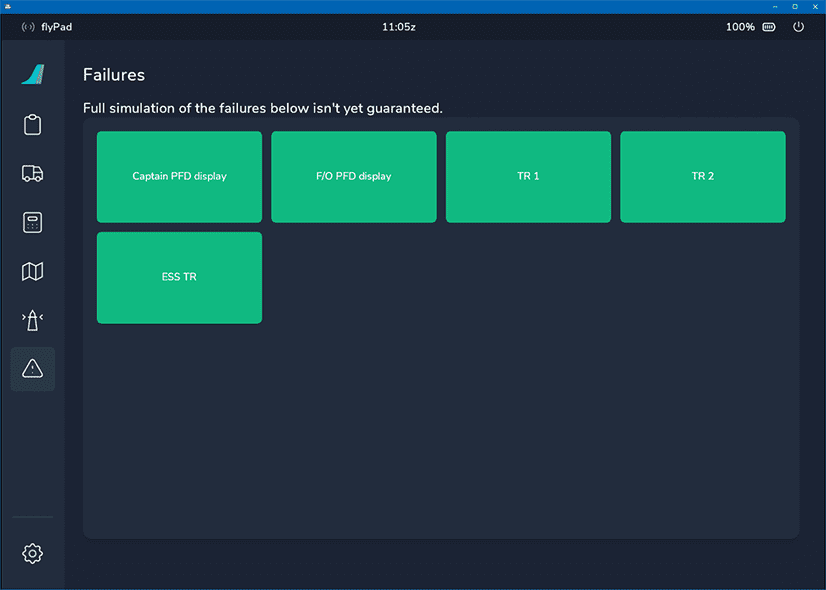
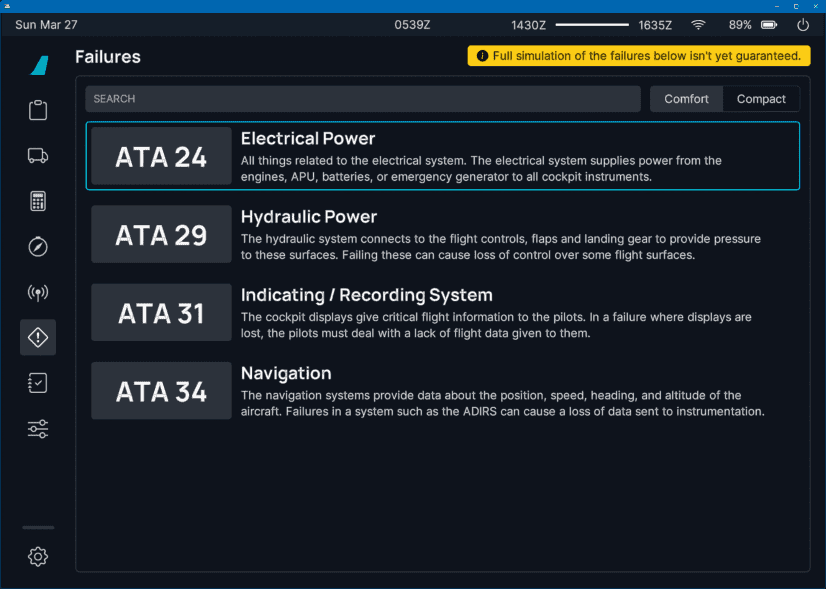
Failures page

diff --git a/docs/fbw-a32nx/feature-guides/flyPados3/failures.md b/docs/fbw-a32nx/feature-guides/flyPados3/failures.md
@@ -2,15 +2,17 @@
 
 # flyPad Failures
 
-## Description
+## Overview
 
-This page is a prototype for utilizing failures simulation for the FlyByWire A32NX. It lays
-the foundation for future failure scenarios in the aircraft which will be configured
-on this page.
+Although far from complete some A32NX systems are already capable of simulating failures.
 
-This page will therefore change alongside the implementation of the failure system.
+To manage and trigger these failures this flyPad page gives the user structured access to these systems and allows 
+simple triggering of failures by mouse click.
 
-See the developer description for this feature: [Feature Failures](https://github.com/flybywiresim/a32nx/pull/5359){target=new}
+There are further extensions planned for the failures feature incl. more systems and trigger based failures. This 
+page will therefore change alongside the implementation of the failure system.
+
+## Comfort view
 
 <div style="position: relative;">
     <img src="/fbw-a32nx/assets/flypados3/flypad-failures.png" style="width: 100%; height: auto;" loading="lazy">
@@ -27,7 +29,90 @@ See the developer description for this feature: [Feature Failures](https://githu
     <span class="imagesub">Click on the menu icons in this image to see other flyPad pages.</span>
 </div>
 
+## Compact view
 
-## Usage
+<div style="position: relative;">
+    <img src="/fbw-a32nx/assets/flypados3/flypad-failures-compact-view.png" style="width: 100%; height: auto;" loading="lazy">
+    <a href="../dashboard/">   <div class="imagemap" style="position: absolute; left: 1.7%; top:  6.9%; width: 5.8%; height: 7.0%;"><span class="imagemapname">Dashboard</span></div></a>
+    <a href="../dispatch/">    <div class="imagemap" style="position: absolute; left: 1.7%; top: 14.1%; width: 5.8%; height: 7.0%;"><span class="imagemapname">Dispatch</span></div></a>
+    <a href="../ground/">      <div class="imagemap" style="position: absolute; left: 1.7%; top: 21.1%; width: 5.8%; height: 7.0%;"><span class="imagemapname">Ground</span></div></a>
+    <a href="../performance/"> <div class="imagemap" style="position: absolute; left: 1.7%; top: 28.3%; width: 5.8%; height: 7.0%;"><span class="imagemapname">Performance</span></div></a>
+    <a href="../charts/">      <div class="imagemap" style="position: absolute; left: 1.7%; top: 35.6%; width: 5.8%; height: 7.0%;"><span class="imagemapname">Navigation & Charts</span></div></a>
+    <a href="../online-atc/">  <div class="imagemap" style="position: absolute; left: 1.7%; top: 43.0%; width: 5.8%; height: 7.0%;"><span class="imagemapname">Online ATC</span></div></a>
+    <a href="../failures/">    <div class="imagemap" style="position: absolute; left: 1.7%; top: 50.1%; width: 5.8%; height: 7.0%;"><span class="imagemapname">Failures</span></div></a>
+    <a href="../checklist/">   <div class="imagemap" style="position: absolute; left: 1.7%; top: 57.3%; width: 5.8%; height: 7.0%;"><span class="imagemapname">Checklists</span></div></a>
+    <a href="../presets/">     <div class="imagemap" style="position: absolute; left: 1.7%; top: 64.7%; width: 5.8%; height: 7.0%;"><span class="imagemapname">Presets</span></div></a>
+    <a href="../settings/">    <div class="imagemap" style="position: absolute; left: 1.7%; top: 85.0%; width: 5.8%; height: 7.0%;"><span class="imagemapname">Settings</span></div></a>
+    <span class="imagesub">Click on the menu icons in this image to see other flyPad pages.</span>
+</div>
 
-Just click on the desired failure to simulate it. It turns red when activated.
+## System View
+
+<div style="position: relative;">
+    <img src="/fbw-a32nx/assets/flypados3/flypad-failures-system-view.png" style="width: 100%; height: auto;" loading="lazy">
+    <a href="../dashboard/">   <div class="imagemap" style="position: absolute; left: 1.7%; top:  6.9%; width: 5.8%; height: 7.0%;"><span class="imagemapname">Dashboard</span></div></a>
+    <a href="../dispatch/">    <div class="imagemap" style="position: absolute; left: 1.7%; top: 14.1%; width: 5.8%; height: 7.0%;"><span class="imagemapname">Dispatch</span></div></a>
+    <a href="../ground/">      <div class="imagemap" style="position: absolute; left: 1.7%; top: 21.1%; width: 5.8%; height: 7.0%;"><span class="imagemapname">Ground</span></div></a>
+    <a href="../performance/"> <div class="imagemap" style="position: absolute; left: 1.7%; top: 28.3%; width: 5.8%; height: 7.0%;"><span class="imagemapname">Performance</span></div></a>
+    <a href="../charts/">      <div class="imagemap" style="position: absolute; left: 1.7%; top: 35.6%; width: 5.8%; height: 7.0%;"><span class="imagemapname">Navigation & Charts</span></div></a>
+    <a href="../online-atc/">  <div class="imagemap" style="position: absolute; left: 1.7%; top: 43.0%; width: 5.8%; height: 7.0%;"><span class="imagemapname">Online ATC</span></div></a>
+    <a href="../failures/">    <div class="imagemap" style="position: absolute; left: 1.7%; top: 50.1%; width: 5.8%; height: 7.0%;"><span class="imagemapname">Failures</span></div></a>
+    <a href="../checklist/">   <div class="imagemap" style="position: absolute; left: 1.7%; top: 57.3%; width: 5.8%; height: 7.0%;"><span class="imagemapname">Checklists</span></div></a>
+    <a href="../presets/">     <div class="imagemap" style="position: absolute; left: 1.7%; top: 64.7%; width: 5.8%; height: 7.0%;"><span class="imagemapname">Presets</span></div></a>
+    <a href="../settings/">    <div class="imagemap" style="position: absolute; left: 1.7%; top: 85.0%; width: 5.8%; height: 7.0%;"><span class="imagemapname">Settings</span></div></a>
+    <span class="imagesub">Click on the menu icons in this image to see other flyPad pages.</span>
+</div>
+
+## Active Failure View
+
+When a failure is actively simulated the system will be highlighted with a red color. 
+
+<div style="position: relative;">
+    <img src="/fbw-a32nx/assets/flypados3/flypad-failures-active1-view.png" style="width: 100%; height: auto;" loading="lazy">
+    <a href="../dashboard/">   <div class="imagemap" style="position: absolute; left: 1.7%; top:  6.9%; width: 5.8%; height: 7.0%;"><span class="imagemapname">Dashboard</span></div></a>
+    <a href="../dispatch/">    <div class="imagemap" style="position: absolute; left: 1.7%; top: 14.1%; width: 5.8%; height: 7.0%;"><span class="imagemapname">Dispatch</span></div></a>
+    <a href="../ground/">      <div class="imagemap" style="position: absolute; left: 1.7%; top: 21.1%; width: 5.8%; height: 7.0%;"><span class="imagemapname">Ground</span></div></a>
+    <a href="../performance/"> <div class="imagemap" style="position: absolute; left: 1.7%; top: 28.3%; width: 5.8%; height: 7.0%;"><span class="imagemapname">Performance</span></div></a>
+    <a href="../charts/">      <div class="imagemap" style="position: absolute; left: 1.7%; top: 35.6%; width: 5.8%; height: 7.0%;"><span class="imagemapname">Navigation & Charts</span></div></a>
+    <a href="../online-atc/">  <div class="imagemap" style="position: absolute; left: 1.7%; top: 43.0%; width: 5.8%; height: 7.0%;"><span class="imagemapname">Online ATC</span></div></a>
+    <a href="../failures/">    <div class="imagemap" style="position: absolute; left: 1.7%; top: 50.1%; width: 5.8%; height: 7.0%;"><span class="imagemapname">Failures</span></div></a>
+    <a href="../checklist/">   <div class="imagemap" style="position: absolute; left: 1.7%; top: 57.3%; width: 5.8%; height: 7.0%;"><span class="imagemapname">Checklists</span></div></a>
+    <a href="../presets/">     <div class="imagemap" style="position: absolute; left: 1.7%; top: 64.7%; width: 5.8%; height: 7.0%;"><span class="imagemapname">Presets</span></div></a>
+    <a href="../settings/">    <div class="imagemap" style="position: absolute; left: 1.7%; top: 85.0%; width: 5.8%; height: 7.0%;"><span class="imagemapname">Settings</span></div></a>
+    <span class="imagesub">Click on the menu icons in this image to see other flyPad pages.</span>
+</div>
+
+<div style="position: relative;">
+    <img src="/fbw-a32nx/assets/flypados3/flypad-failures-active2-view.png" style="width: 100%; height: auto;" loading="lazy">
+    <a href="../dashboard/">   <div class="imagemap" style="position: absolute; left: 1.7%; top:  6.9%; width: 5.8%; height: 7.0%;"><span class="imagemapname">Dashboard</span></div></a>
+    <a href="../dispatch/">    <div class="imagemap" style="position: absolute; left: 1.7%; top: 14.1%; width: 5.8%; height: 7.0%;"><span class="imagemapname">Dispatch</span></div></a>
+    <a href="../ground/">      <div class="imagemap" style="position: absolute; left: 1.7%; top: 21.1%; width: 5.8%; height: 7.0%;"><span class="imagemapname">Ground</span></div></a>
+    <a href="../performance/"> <div class="imagemap" style="position: absolute; left: 1.7%; top: 28.3%; width: 5.8%; height: 7.0%;"><span class="imagemapname">Performance</span></div></a>
+    <a href="../charts/">      <div class="imagemap" style="position: absolute; left: 1.7%; top: 35.6%; width: 5.8%; height: 7.0%;"><span class="imagemapname">Navigation & Charts</span></div></a>
+    <a href="../online-atc/">  <div class="imagemap" style="position: absolute; left: 1.7%; top: 43.0%; width: 5.8%; height: 7.0%;"><span class="imagemapname">Online ATC</span></div></a>
+    <a href="../failures/">    <div class="imagemap" style="position: absolute; left: 1.7%; top: 50.1%; width: 5.8%; height: 7.0%;"><span class="imagemapname">Failures</span></div></a>
+    <a href="../checklist/">   <div class="imagemap" style="position: absolute; left: 1.7%; top: 57.3%; width: 5.8%; height: 7.0%;"><span class="imagemapname">Checklists</span></div></a>
+    <a href="../presets/">     <div class="imagemap" style="position: absolute; left: 1.7%; top: 64.7%; width: 5.8%; height: 7.0%;"><span class="imagemapname">Presets</span></div></a>
+    <a href="../settings/">    <div class="imagemap" style="position: absolute; left: 1.7%; top: 85.0%; width: 5.8%; height: 7.0%;"><span class="imagemapname">Settings</span></div></a>
+    <span class="imagesub">Click on the menu icons in this image to see other flyPad pages.</span>
+</div>
+
+## Search
+
+Enter a search term to filter for specific systems. 
+
+<div style="position: relative;">
+    <img src="/fbw-a32nx/assets/flypados3/flypad-failures-search-view.png" style="width: 100%; height: auto;" loading="lazy">
+    <a href="../dashboard/">   <div class="imagemap" style="position: absolute; left: 1.7%; top:  6.9%; width: 5.8%; height: 7.0%;"><span class="imagemapname">Dashboard</span></div></a>
+    <a href="../dispatch/">    <div class="imagemap" style="position: absolute; left: 1.7%; top: 14.1%; width: 5.8%; height: 7.0%;"><span class="imagemapname">Dispatch</span></div></a>
+    <a href="../ground/">      <div class="imagemap" style="position: absolute; left: 1.7%; top: 21.1%; width: 5.8%; height: 7.0%;"><span class="imagemapname">Ground</span></div></a>
+    <a href="../performance/"> <div class="imagemap" style="position: absolute; left: 1.7%; top: 28.3%; width: 5.8%; height: 7.0%;"><span class="imagemapname">Performance</span></div></a>
+    <a href="../charts/">      <div class="imagemap" style="position: absolute; left: 1.7%; top: 35.6%; width: 5.8%; height: 7.0%;"><span class="imagemapname">Navigation & Charts</span></div></a>
+    <a href="../online-atc/">  <div class="imagemap" style="position: absolute; left: 1.7%; top: 43.0%; width: 5.8%; height: 7.0%;"><span class="imagemapname">Online ATC</span></div></a>
+    <a href="../failures/">    <div class="imagemap" style="position: absolute; left: 1.7%; top: 50.1%; width: 5.8%; height: 7.0%;"><span class="imagemapname">Failures</span></div></a>
+    <a href="../checklist/">   <div class="imagemap" style="position: absolute; left: 1.7%; top: 57.3%; width: 5.8%; height: 7.0%;"><span class="imagemapname">Checklists</span></div></a>
+    <a href="../presets/">     <div class="imagemap" style="position: absolute; left: 1.7%; top: 64.7%; width: 5.8%; height: 7.0%;"><span class="imagemapname">Presets</span></div></a>
+    <a href="../settings/">    <div class="imagemap" style="position: absolute; left: 1.7%; top: 85.0%; width: 5.8%; height: 7.0%;"><span class="imagemapname">Settings</span></div></a>
+    <span class="imagesub">Click on the menu icons in this image to see other flyPad pages.</span>
+</div>
+

diff --git a/docs/fbw-a32nx/feature-guides/flyPados3/dashboard.md b/docs/fbw-a32nx/feature-guides/flyPados3/dashboard.md
@@ -63,6 +63,14 @@ We have applied a helpful coloring scheme a large European airline uses to point
 - Red: highlights very significant values as a warning to the pilot
 - Grey: additional information and remarks
 
+### Pinned Charts Widget
+
+![img_4.png](../../assets/flypados3/pinned-charts-widget.png)
+
+### Checklist and Maintenance Widget
+
+![img_5.png](../../assets/flypados3/checklist-maintenance-widget.png)
+
 ### Load From simBrief
 
 ![From simBrief](../../assets/flypados3/load-from-simbrief.png)
